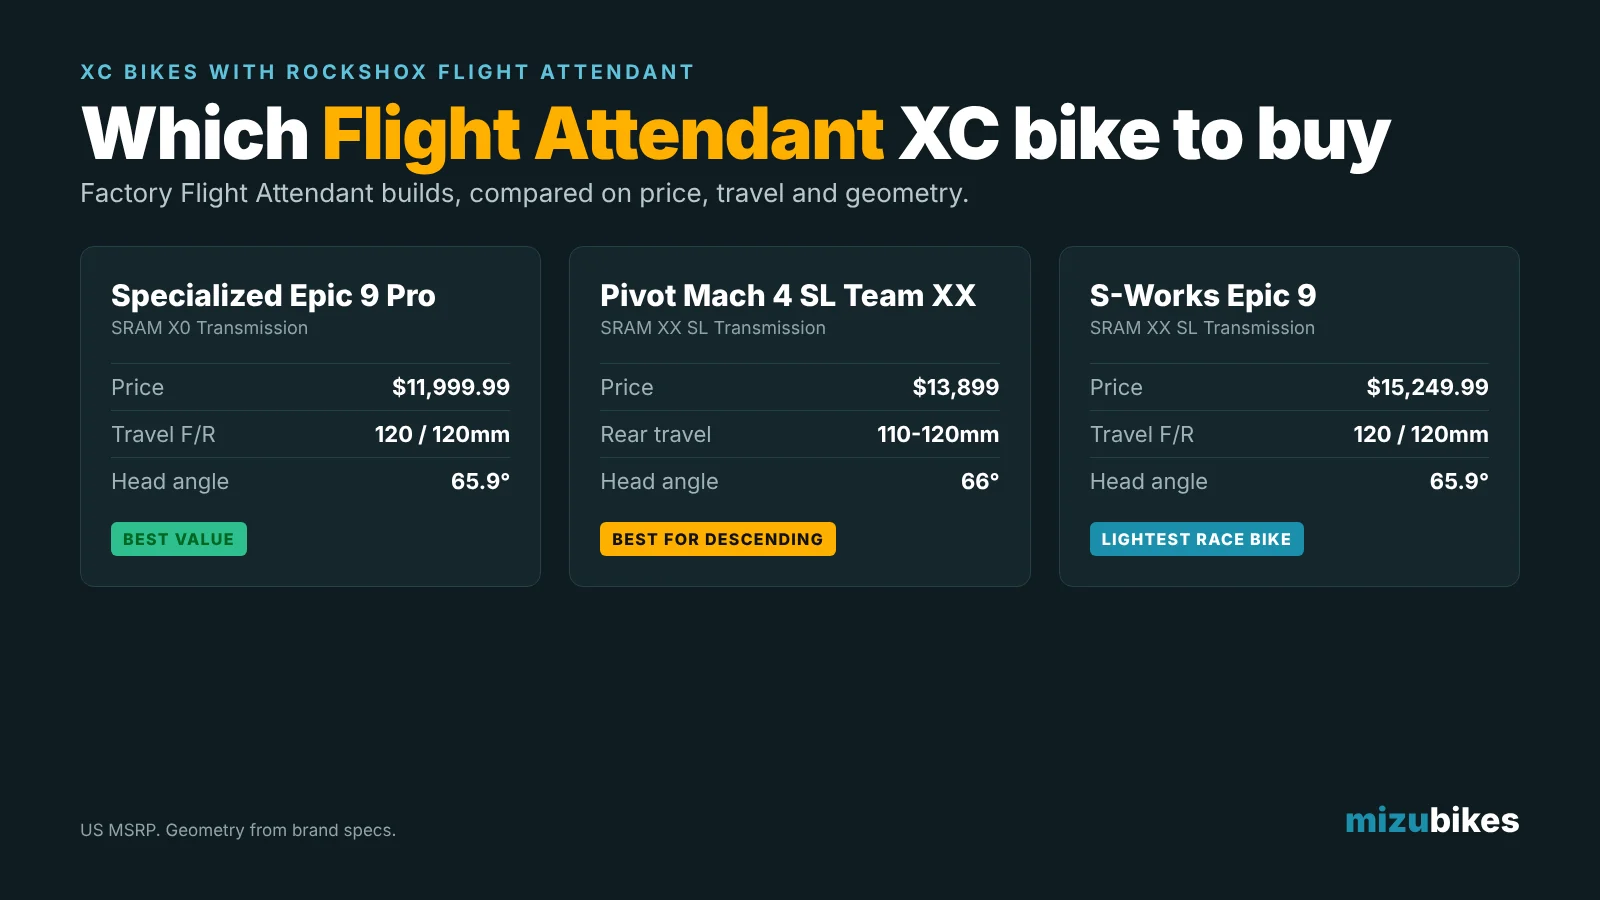
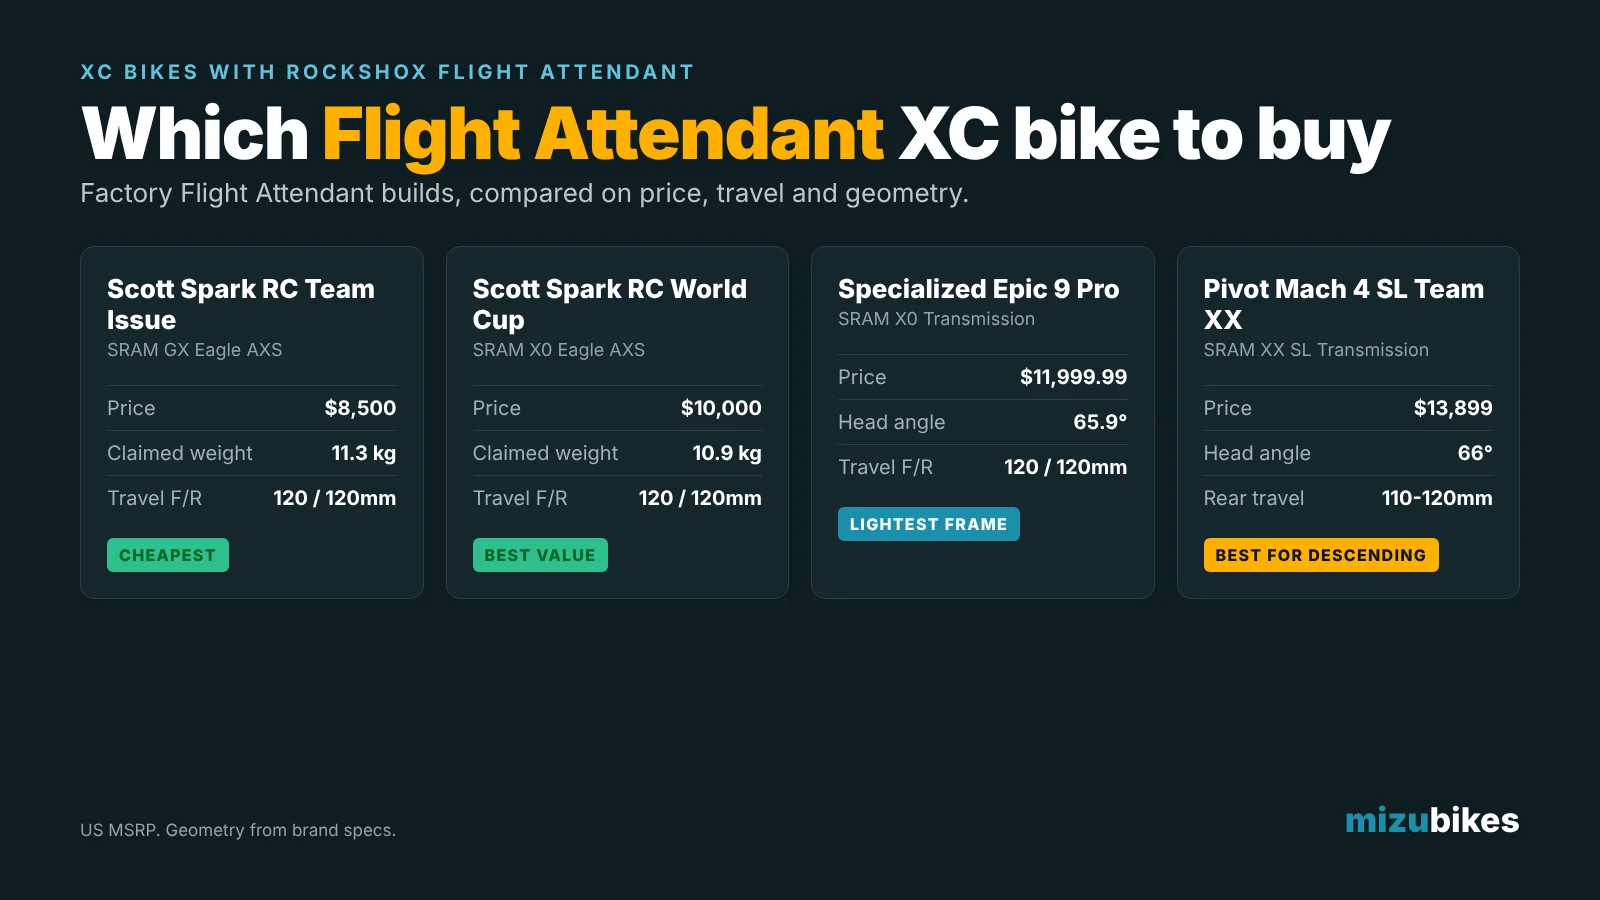
Flight Attendant post: add 2027 Scott Spark RC builds, new verdict, Spark and Pivot photos
Claude-Session: https://claude.ai/code/session_012nBX9arnGcA8nn1be6PAsX

Changed region(s): [[0.0625, 0.3111, 0.9375, 0.6533], [0.2812, 0.4044, 0.9062, 0.6533], [0.75, 0.4356, 0.7812, 0.4667]]

diff --git a/content/posts/xc-bikes-with-flight-attendant.md b/content/posts/xc-bikes-with-flight-attendant.md
@@ -1,7 +1,8 @@
 ---
 title: 'XC Bikes With Flight Attendant: Which One to Buy'
 date: 2026-11-14T22:30:00-08:00
-description: 'Which XC bike with RockShox Flight Attendant should you buy? Epic 9 Pro vs S-Works Epic 9 vs Pivot Mach 4 SL, plus adding Flight Attendant to your own bike.'
+lastmod: 2026-11-14T23:15:00-08:00
+description: 'XC bikes with RockShox Flight Attendant compared: Scott Spark RC from $8,500, Specialized Epic 9, Pivot Mach 4 SL, plus used S-Works Epic 8.'
 slug: xc-bikes-with-flight-attendant
 categories:
 - Mountain
@@ -9,6 +10,7 @@ tags:
 - Flight Attendant
 - RockShox
 - XC
+- Scott Spark RC
 - Specialized Epic 9
 - Pivot Mach 4 SL
 cover:
@@ -19,22 +21,26 @@ cover:
 draft: false
 ---
 
-RockShox Flight Attendant reads the terrain, your pedaling and the gear you're in, then switches your fork and shock between open, pedal and lock on its own, faster than you could reach for a lever. It's genuinely good on an XC bike. It's also only offered as a factory option on a handful of expensive bikes. So if you want it, the real question is which bike to get it on.
+RockShox Flight Attendant reads the terrain, your pedaling and the gear you're in, then switches your fork and shock between open, pedal and lock on its own, faster than you could reach for a lever. It's genuinely good on an XC bike. For a long time it was only on a couple of very expensive bikes. That changed with the 2027 Scott Spark RC, which puts Flight Attendant on four builds, starting at $8,500.
 
 *Mizubikes may earn a commission from links in this post.*
 
-**Quick answer:** For most riders, the Specialized Epic 9 Pro at $11,999.99 is the XC bike with Flight Attendant to buy. It's the cheapest factory Flight Attendant bike from a major brand, on the lightest XC frame Specialized makes. Pick the Pivot Mach 4 SL Team XX Flight Attendant ($13,899) if you care more about descending and want down tube storage. On a budget, a used S-Works Epic 8 came with Flight Attendant as standard. The S-Works Epic 9 ($15,249.99) only makes sense if you're racing and want XX SL everything.
+**Quick answer:** The cheapest XC bike with factory Flight Attendant is the Scott Spark RC Team Issue at $8,500. The best value is the Spark RC World Cup at $10,000, which gets you SRAM X0 for about $2,000 less than the Specialized Epic 9 Pro. Pick the Pivot Mach 4 SL Team XX Flight Attendant ($13,899) if descending matters most to you. A used S-Works Epic 8, which came with Flight Attendant as standard, is the budget option.
 
-![XC bikes with Flight Attendant compared: Epic 9 Pro, Pivot Mach 4 SL Team XX and S-Works Epic 9](/images/xc-bikes-flight-attendant.webp)
+![XC bikes with Flight Attendant compared: Scott Spark RC Team Issue and World Cup, Specialized Epic 9 Pro, Pivot Mach 4 SL Team XX](/images/xc-bikes-flight-attendant.webp)
 *Graphic: Mizubikes*
 
 ## XC bikes that come with Flight Attendant
 
-| Bike | Price | Drivetrain | Rear travel | Head angle | Storage |
-|---|---|---|---|---|---|
-| Specialized Epic 9 Pro | $11,999.99 | SRAM X0 Transmission | 120mm | 65.9° | External SWAT box |
-| Pivot Mach 4 SL Team XX Flight Attendant | $13,899 | SRAM XX SL Transmission | 110-120mm (adjustable) | 66° | In the down tube |
-| Specialized S-Works Epic 9 | $15,249.99 | SRAM XX SL Transmission | 120mm | 65.9° | External SWAT box |
+| Bike | Price | Drivetrain | Claimed weight | Travel F/R |
+|---|---|---|---|---|
+| Scott Spark RC Team Issue | $8,500 | SRAM GX Eagle AXS | 11.3 kg | 120 / 120mm |
+| Scott Spark RC World Cup | $10,000 | SRAM X0 Eagle AXS | 10.9 kg | 120 / 120mm |
+| Specialized Epic 9 Pro | $11,999.99 | SRAM X0 Transmission | Not published | 120 / 120mm |
+| Scott Spark RC World Cup EVO | $13,000 | SRAM XX Eagle AXS | 10.5 kg | 120 / 120mm |
+| Pivot Mach 4 SL Team XX Flight Attendant | $13,899 | SRAM XX SL Transmission | Not published | 110-120mm rear |
+| Scott Spark RC SL | $15,000 | SRAM XX SL Eagle AXS | 9.9 kg | 120 / 120mm |
+| Specialized S-Works Epic 9 | $15,249.99 | SRAM XX SL Transmission | Not published | 120 / 120mm |
 
 Prices are US MSRP. Yeti offered a Flight Attendant build of the ASR in 2025 ($13,900), but there isn't one in the 2026 lineup. If you find a leftover 2025 ASR T5 Flight Attendant on sale this winter, it's worth a look.
 
@@ -46,23 +52,33 @@ It works best with an AXS power meter, which lets the system learn your effort l
 
 The tradeoffs are cost and weight. Flow found the XC system adds 166g over a cable-operated setup, or about 81g if you count the power meter you'd probably want anyway. And you're charging two more batteries.
 
-## Specialized Epic 9 Pro: the best value
+## Scott Spark RC: the best value Flight Attendant bike
 
-The Epic 9 Pro is the cheapest way to get factory Flight Attendant from a major brand, and it's built on the Epic 9 frame, which Specialized says is the lightest full-suspension XC frame it has made (1,589g in medium with the shock). You get 120mm front and rear, a 65.9° head angle and SRAM X0 Transmission.
+![2027 Scott Spark RC SL with RockShox Flight Attendant](/images/scott-spark-rc-sl-2027.webp)
+*Scott Spark RC SL. Photo: Scott*
 
-It is a race bike, though. Pinkbike called it "unapologetically race-focused," and Singletracks found it less confident on descents than the Epic 8 Evo. It's wireless shifting only, cables route through the headset, and the in-frame storage is gone, replaced with an external SWAT box. I went through all of that in [Epic 8 vs Epic 9](/posts/specialized-epic-8-vs-epic-9-should-you-upgrade/).
+The 2027 Spark RC is the bike that makes Flight Attendant affordable, or at least less unaffordable. Scott puts it on the Team Issue, World Cup, World Cup EVO and SL builds. The frame is new, with Scott's hidden shock tucked inside the frame, 120mm of travel front and rear, and room for a 130mm fork. Scott claims 1,427g for a painted medium frame without the shock. The higher builds also get internal frame storage with Syncros's tube-and-tool kit.
 
-If you want an XC race bike that pedals as efficiently as possible, this pairing makes sense. Flight Attendant is at its best on a bike that's built to be firm under power and open on descents.
+The **World Cup at $10,000** is the one I'd look at first. It has the same tier of SRAM drivetrain as the Epic 9 Pro (X0) at a claimed 10.9 kg, for about $2,000 less. The **Team Issue at $8,500** is the cheapest way to get factory Flight Attendant on any XC bike, with GX AXS and a claimed 11.3 kg. That's heavier, but the suspension is the same system, and you can upgrade the parts as they wear.
+
+The catch with the Spark is the hidden shock. It looks clean, but it makes shock service and setup more of a job than on a bike with an exposed shock. If you do your own maintenance, factor that in.
+
+## Specialized Epic 9 Pro: the lightest frame
+
+The Epic 9 Pro ($11,999.99) is built on the Epic 9 frame, which Specialized says is the lightest full-suspension XC frame it has made (1,589g in medium with the shock). You get 120mm front and rear, a 65.9° head angle and SRAM X0 Transmission.
+
+It is a race bike, though. Pinkbike called it "unapologetically race-focused," and Singletracks found it less confident on descents than the Epic 8 Evo. It's wireless shifting only, cables route through the headset, and the in-frame storage is gone, replaced with an external SWAT box. I went through all of that in [Epic 8 vs Epic 9](/posts/specialized-epic-8-vs-epic-9-should-you-upgrade/). Next to the Spark RC World Cup, the Epic 9 Pro now costs about $2,000 more for a similar spec, so it needs to win on how it rides, and that comes down to what you prefer.
+
+The **S-Works Epic 9** ($15,249.99) gets the same frame and suspension with XX SL and lighter parts. That's $3,250 more than the Pro, and only worth it if you're racing and counting grams.
 
 ## Pivot Mach 4 SL Team XX Flight Attendant: best for descending
 
-Pivot redesigned the Mach 4 SL for 2026 around a more trail-capable idea of XC. The head angle is 66°, two degrees slacker than before. The rear travel adjusts between 110mm and 120mm, and it now has down tube storage, which the Epic 9 dropped.
+![Pivot Mach 4 SL Team XX](/images/pivot-mach-4-sl-team-xx.webp)
+*Pivot Mach 4 SL Team XX. The standard Team XX shown here uses Fox suspension, and the Flight Attendant version swaps in RockShox. Photo: Pivot*
 
-At $13,899 it's about $1,900 more than the Epic 9 Pro. Some of that buys a better drivetrain, XX SL instead of X0. The rest buys Pivot's DW-link suspension and a frame that's more willing to be ridden like a small trail bike. If your XC riding looks like mine, technical Southern California trails where the descents decide how much fun you have, this is the one I'd lean toward.
+Pivot redesigned the Mach 4 SL for 2026 around a more trail-capable idea of XC. The head angle is 66°, two degrees slacker than before. The rear travel adjusts between 110mm and 120mm, and it has down tube storage with an exposed, easy-to-service shock.
 
-## S-Works Epic 9: only if you're racing
-
-The S-Works gets the same frame and Flight Attendant suspension as the Pro, with SRAM XX SL Transmission and lighter parts throughout. That's $3,250 more than the Pro for the same suspension system and frame shape. Unless you're racing and counting grams, the Pro is the smarter buy, and you can upgrade parts as they wear.
+At $13,899 it's the second-most expensive bike here, but it's also the one built most for riding down as well as up. If your XC riding looks like mine, technical Southern California trails where the descents decide how much fun you have, this is the one I'd lean toward. The standard Team XX with Fox suspension is $11,999 if you decide you don't need Flight Attendant.
 
 ## Used S-Works Epic 8: the Flight Attendant bargain
 
@@ -71,25 +87,27 @@ The S-Works gets the same frame and Flight Attendant suspension as the Pro, with
 
 When RockShox launched XC Flight Attendant in 2024, the S-Works Epic 8 was the only bike that came with it as standard. Now that the Epic 9 has replaced it, more S-Works Epic 8s are showing up on the used market, and prices should keep falling as racers upgrade.
 
-That makes a used S-Works Epic 8 the cheapest way into a factory Flight Attendant XC bike. It also keeps the things the Epic 9 dropped: in-frame SWAT storage and frame-port cable routing instead of headset routing. Check that both Flight Attendant modules and batteries are included, and ask whether the AXS power meter comes with it, since that's part of what makes the system work well. My [used-bike warranty guide](/transferable-warranties/) covers what carries over to a second owner.
+A used S-Works Epic 8 can undercut even the Spark RC Team Issue, and it keeps the things the Epic 9 dropped: in-frame SWAT storage and frame-port cable routing instead of headset routing. Check that both Flight Attendant modules and batteries are included, and ask whether the AXS power meter comes with it, since that's part of what makes the system work well. My [used-bike warranty guide](/transferable-warranties/) covers what carries over to a second owner.
 
 ## Can you add Flight Attendant to your current bike?
 
 Yes, on some frames. RockShox sells the XC Flight Attendant fork and shock aftermarket, and at launch it listed fitment for bikes including the Canyon Lux World Cup and Lux Trail (2023 and newer), Mondraker F-Podium, Orbea Oiz and Oiz TR (2020-2023), Pivot Mach 4 SL (2023 and newer), Santa Cruz Blur and Blur TR (2022 and newer) and Specialized Epic EVO (2020-2023).
 
-The cost adds up fast. At launch the SID Ultimate Flight Attendant fork was $1,449 and the SIDLuxe Ultimate Flight Attendant shock was $849, about $2,300 before you add an AXS power meter or pedal sensor. If your bike runs Shimano, you'd also want an AXS derailleur for the full system. For a lot of riders, that's most of the way to a new bike, so compare the upgrade against the factory builds above before you commit.
+The cost adds up fast. At launch the SID Ultimate Flight Attendant fork was $1,449 and the SIDLuxe Ultimate Flight Attendant shock was $849, about $2,300 before you add an AXS power meter or pedal sensor. If your bike runs Shimano, you'd also want an AXS derailleur for the full system. Now that the Spark RC Team Issue is $8,500 complete, upgrading your old bike rarely makes sense.
 
 That's my situation with my Epic 8 Evo. It runs Fox suspension and a Shimano wireless drivetrain, so going to Flight Attendant would mean replacing the fork, the shock and the derailleur. For me, it's not worth it on that bike.
 
 ## Which one I'd buy
 
-If I were buying an XC bike with Flight Attendant today, it would come down to the Epic 9 Pro and the Mach 4 SL. The Epic 9 Pro is the better deal and the better race bike. The Mach 4 SL is the better bike for how I actually ride, with slacker geometry, adjustable travel and somewhere to put a tube. For most people, I'd say the Epic 9 Pro. For technical trail riding, the Mach 4 SL.
+For most riders shopping for Flight Attendant, the **Scott Spark RC World Cup** at $10,000 is the pick. It's the best spec for the money, and the Team Issue is there if you need to spend less. If you ride technical trails and care more about the descents, I'd pay the extra for the **Pivot Mach 4 SL**. The **Epic 9 Pro** is the one to choose if you've ridden it and prefer it, or if a lighter frame matters more to you than $2,000.
 
-And if Flight Attendant isn't a must, a good XC bike with a simple remote lockout still costs thousands less. Every bike here also comes in a non-Flight Attendant version. If you're curious where XC bikes are headed next, [32-inch XC bikes](/posts/32-inch-xc-bikes-racing-coming/) are coming fast, and some of the prototypes are already racing with Flight Attendant forks.
+And if Flight Attendant isn't a must, every bike here also comes in a cheaper non-Flight Attendant version. If you're curious where XC bikes are headed next, [32-inch XC bikes](/posts/32-inch-xc-bikes-racing-coming/) are coming fast, and Scott's own 32-inch Spark prototype is already racing World Cups.
 
 ## FAQ
 
-**Which XC bikes come with Flight Attendant?** For 2026, the Specialized Epic 9 Pro and S-Works Epic 9, and the Pivot Mach 4 SL Team XX Flight Attendant. Yeti offered a Flight Attendant ASR in 2025, and the S-Works Epic 8 came with it from 2024.
+**Which XC bikes come with Flight Attendant?** For 2026-2027, the Scott Spark RC Team Issue, World Cup, World Cup EVO and SL, the Specialized Epic 9 Pro and S-Works Epic 9, and the Pivot Mach 4 SL Team XX Flight Attendant. Yeti offered a Flight Attendant ASR in 2025, and the S-Works Epic 8 came with it from 2024.
+
+**What's the cheapest bike with Flight Attendant?** New, the Scott Spark RC Team Issue at $8,500. Used, an S-Works Epic 8 can be cheaper.
 
 **Is Flight Attendant worth it for XC?** If you race or ride long, varied terrain, yes. Reviewers consistently found it improves pedaling efficiency without you touching a lever. If you mostly ride smooth trails or don't use a lockout much now, it's a lot of money for a small gain.
 
@@ -97,8 +115,8 @@ And if Flight Attendant isn't a must, a good XC bike with a simple remote lockou
 
 ## Sources
 
+- [Bikerumor: 2027 Scott Spark RC](https://bikerumor.com/2027-scott-spark-xc-lightweight-carbon-120mm-xc-race-bike/)
 - [Flow Mountain Bike: RockShox Flight Attendant XC review](https://flowmountainbike.com/tests/rockshox-flight-attendant-xc-review-2024-sid-sidluxe/)
 - [BikeRadar: RockShox Flight Attendant for XC](https://www.bikeradar.com/news/rockshox-cross-country-flight-attendant)
 - [BikeRadar: 2026 Pivot Mach 4 SL](https://www.bikeradar.com/news/2026-pivot-mach-4-sl)
 - [Pinkbike: Specialized Epic 9 first ride](https://www.pinkbike.com/news/first-ride-specialized-epic-9-unapologetically-race-focused.html)
-- [Pivot: Mach 4 SL Team XX SL Flight Attendant](https://www.pivotcycles.com/en-us/products/mach-4-sl-team-xx-sl-eagle-transmission-flight-attendant-flight-attendant)
